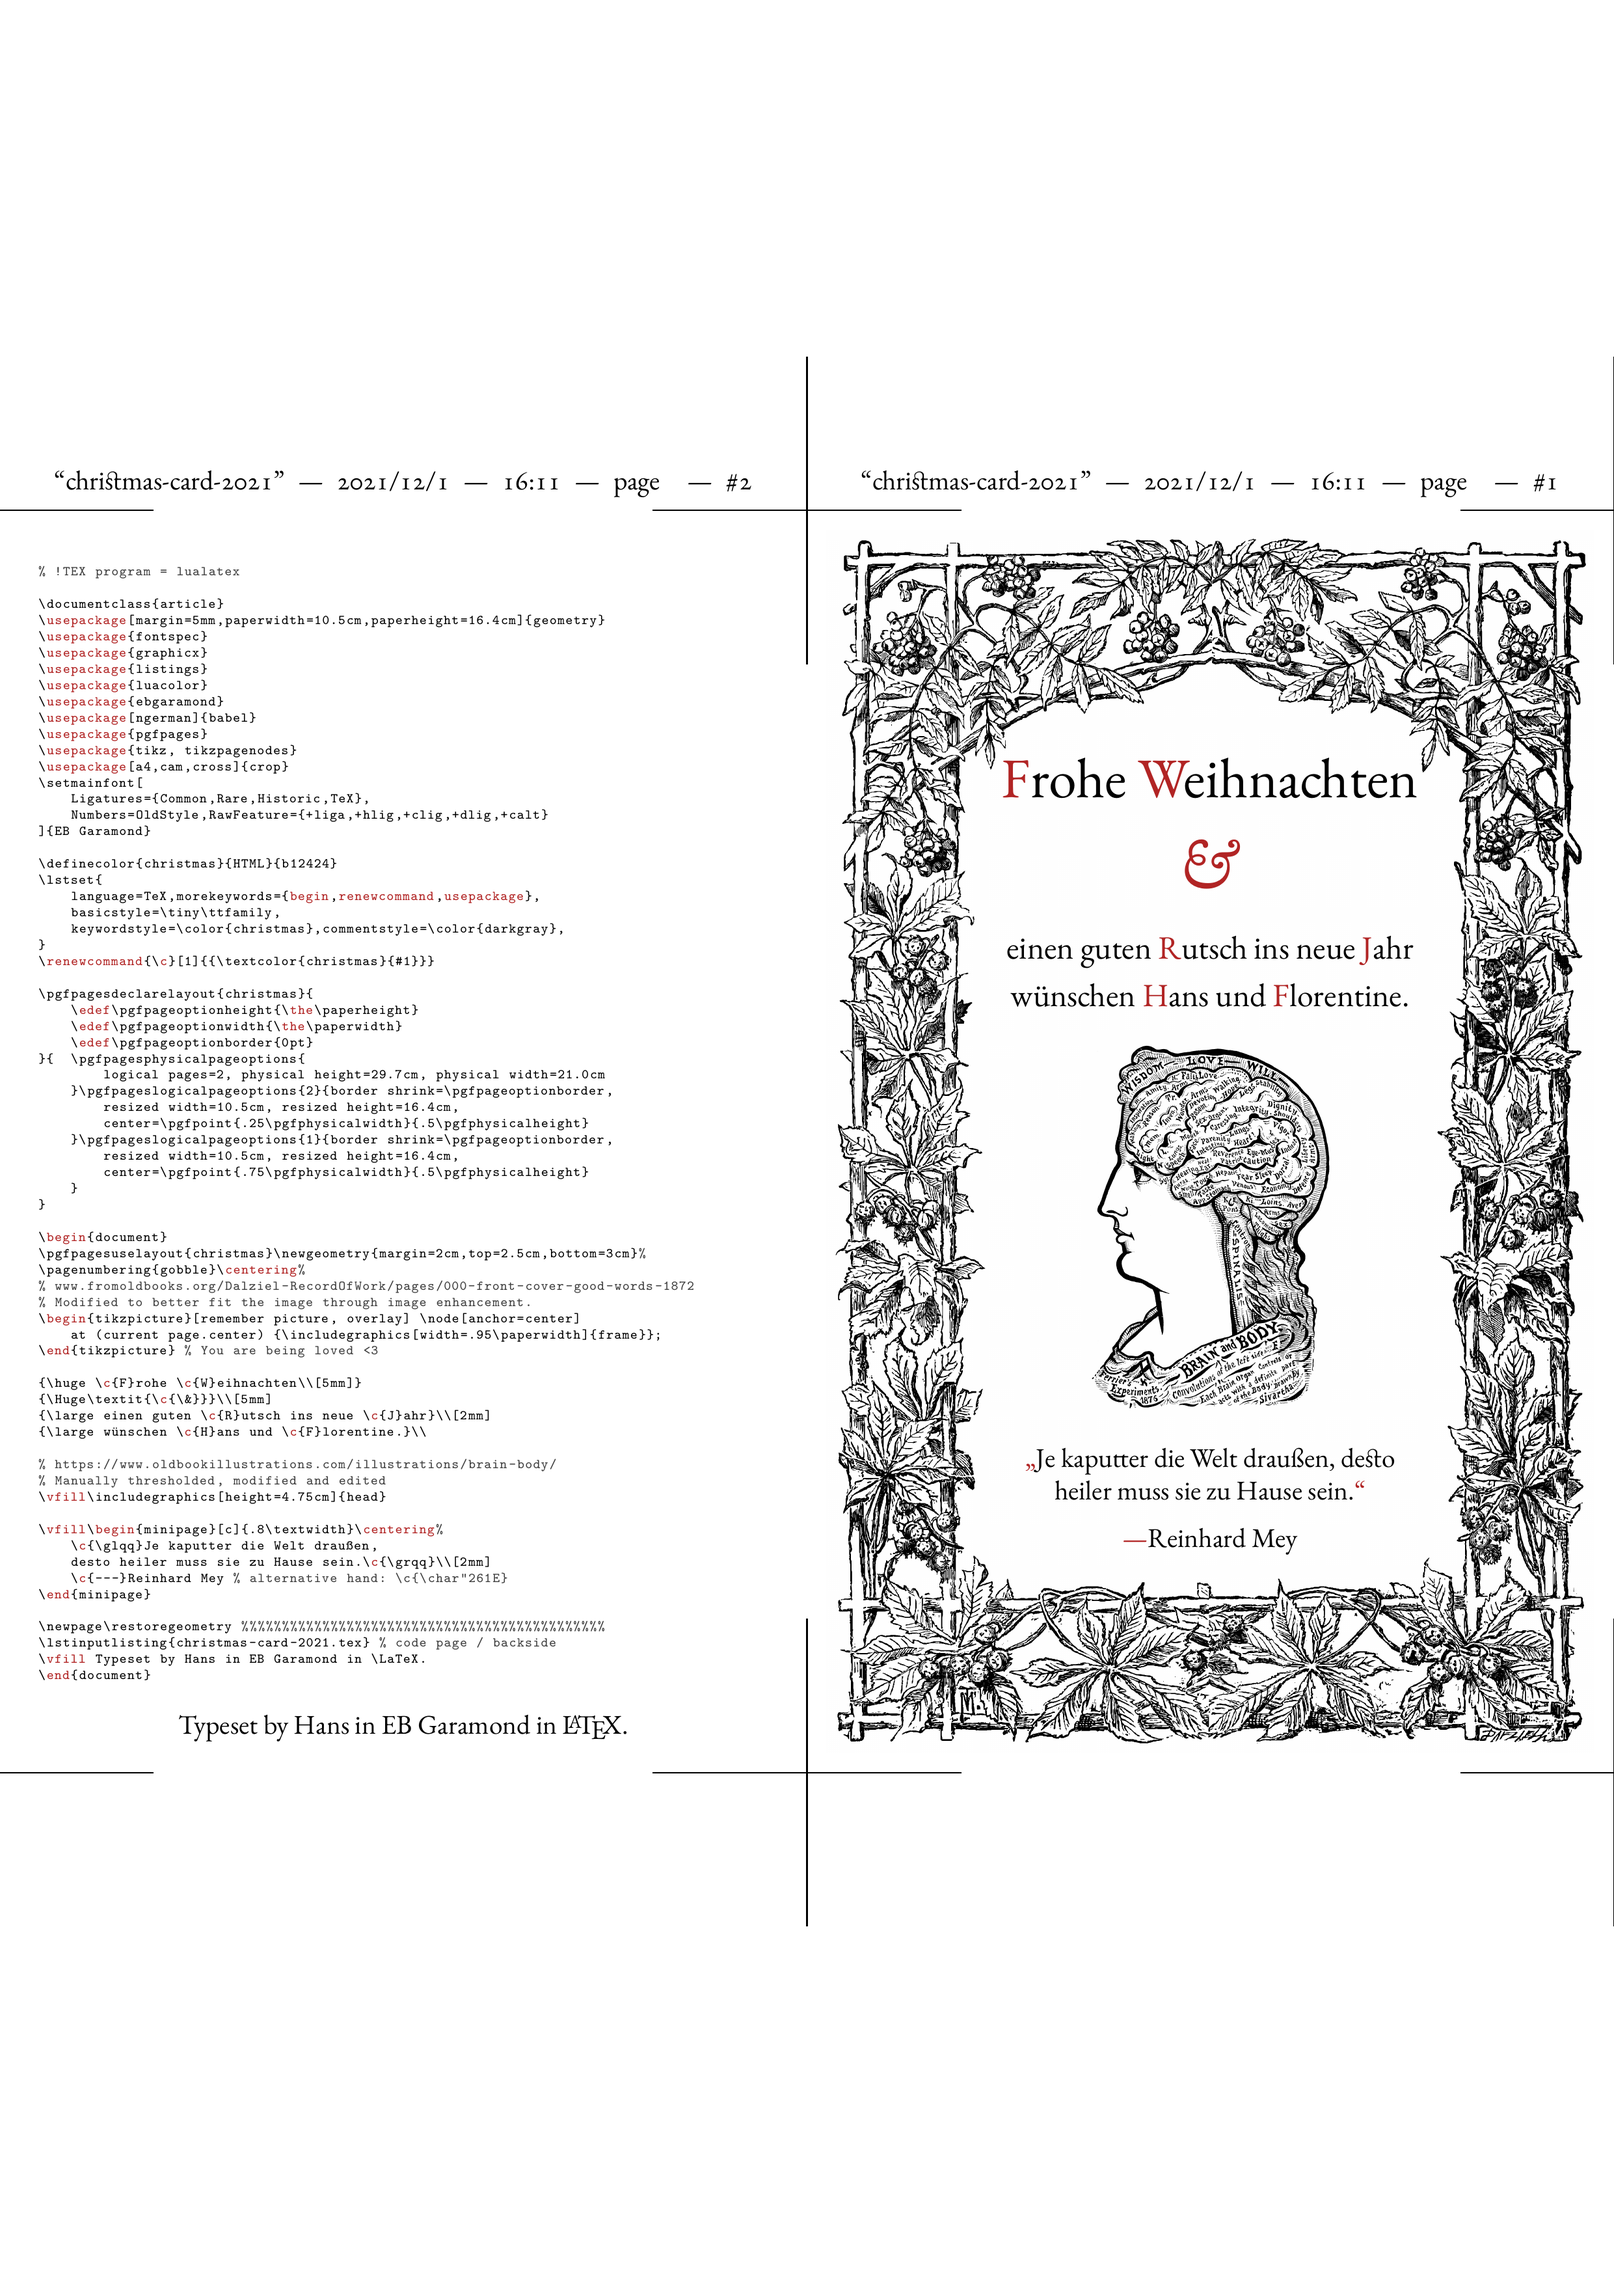
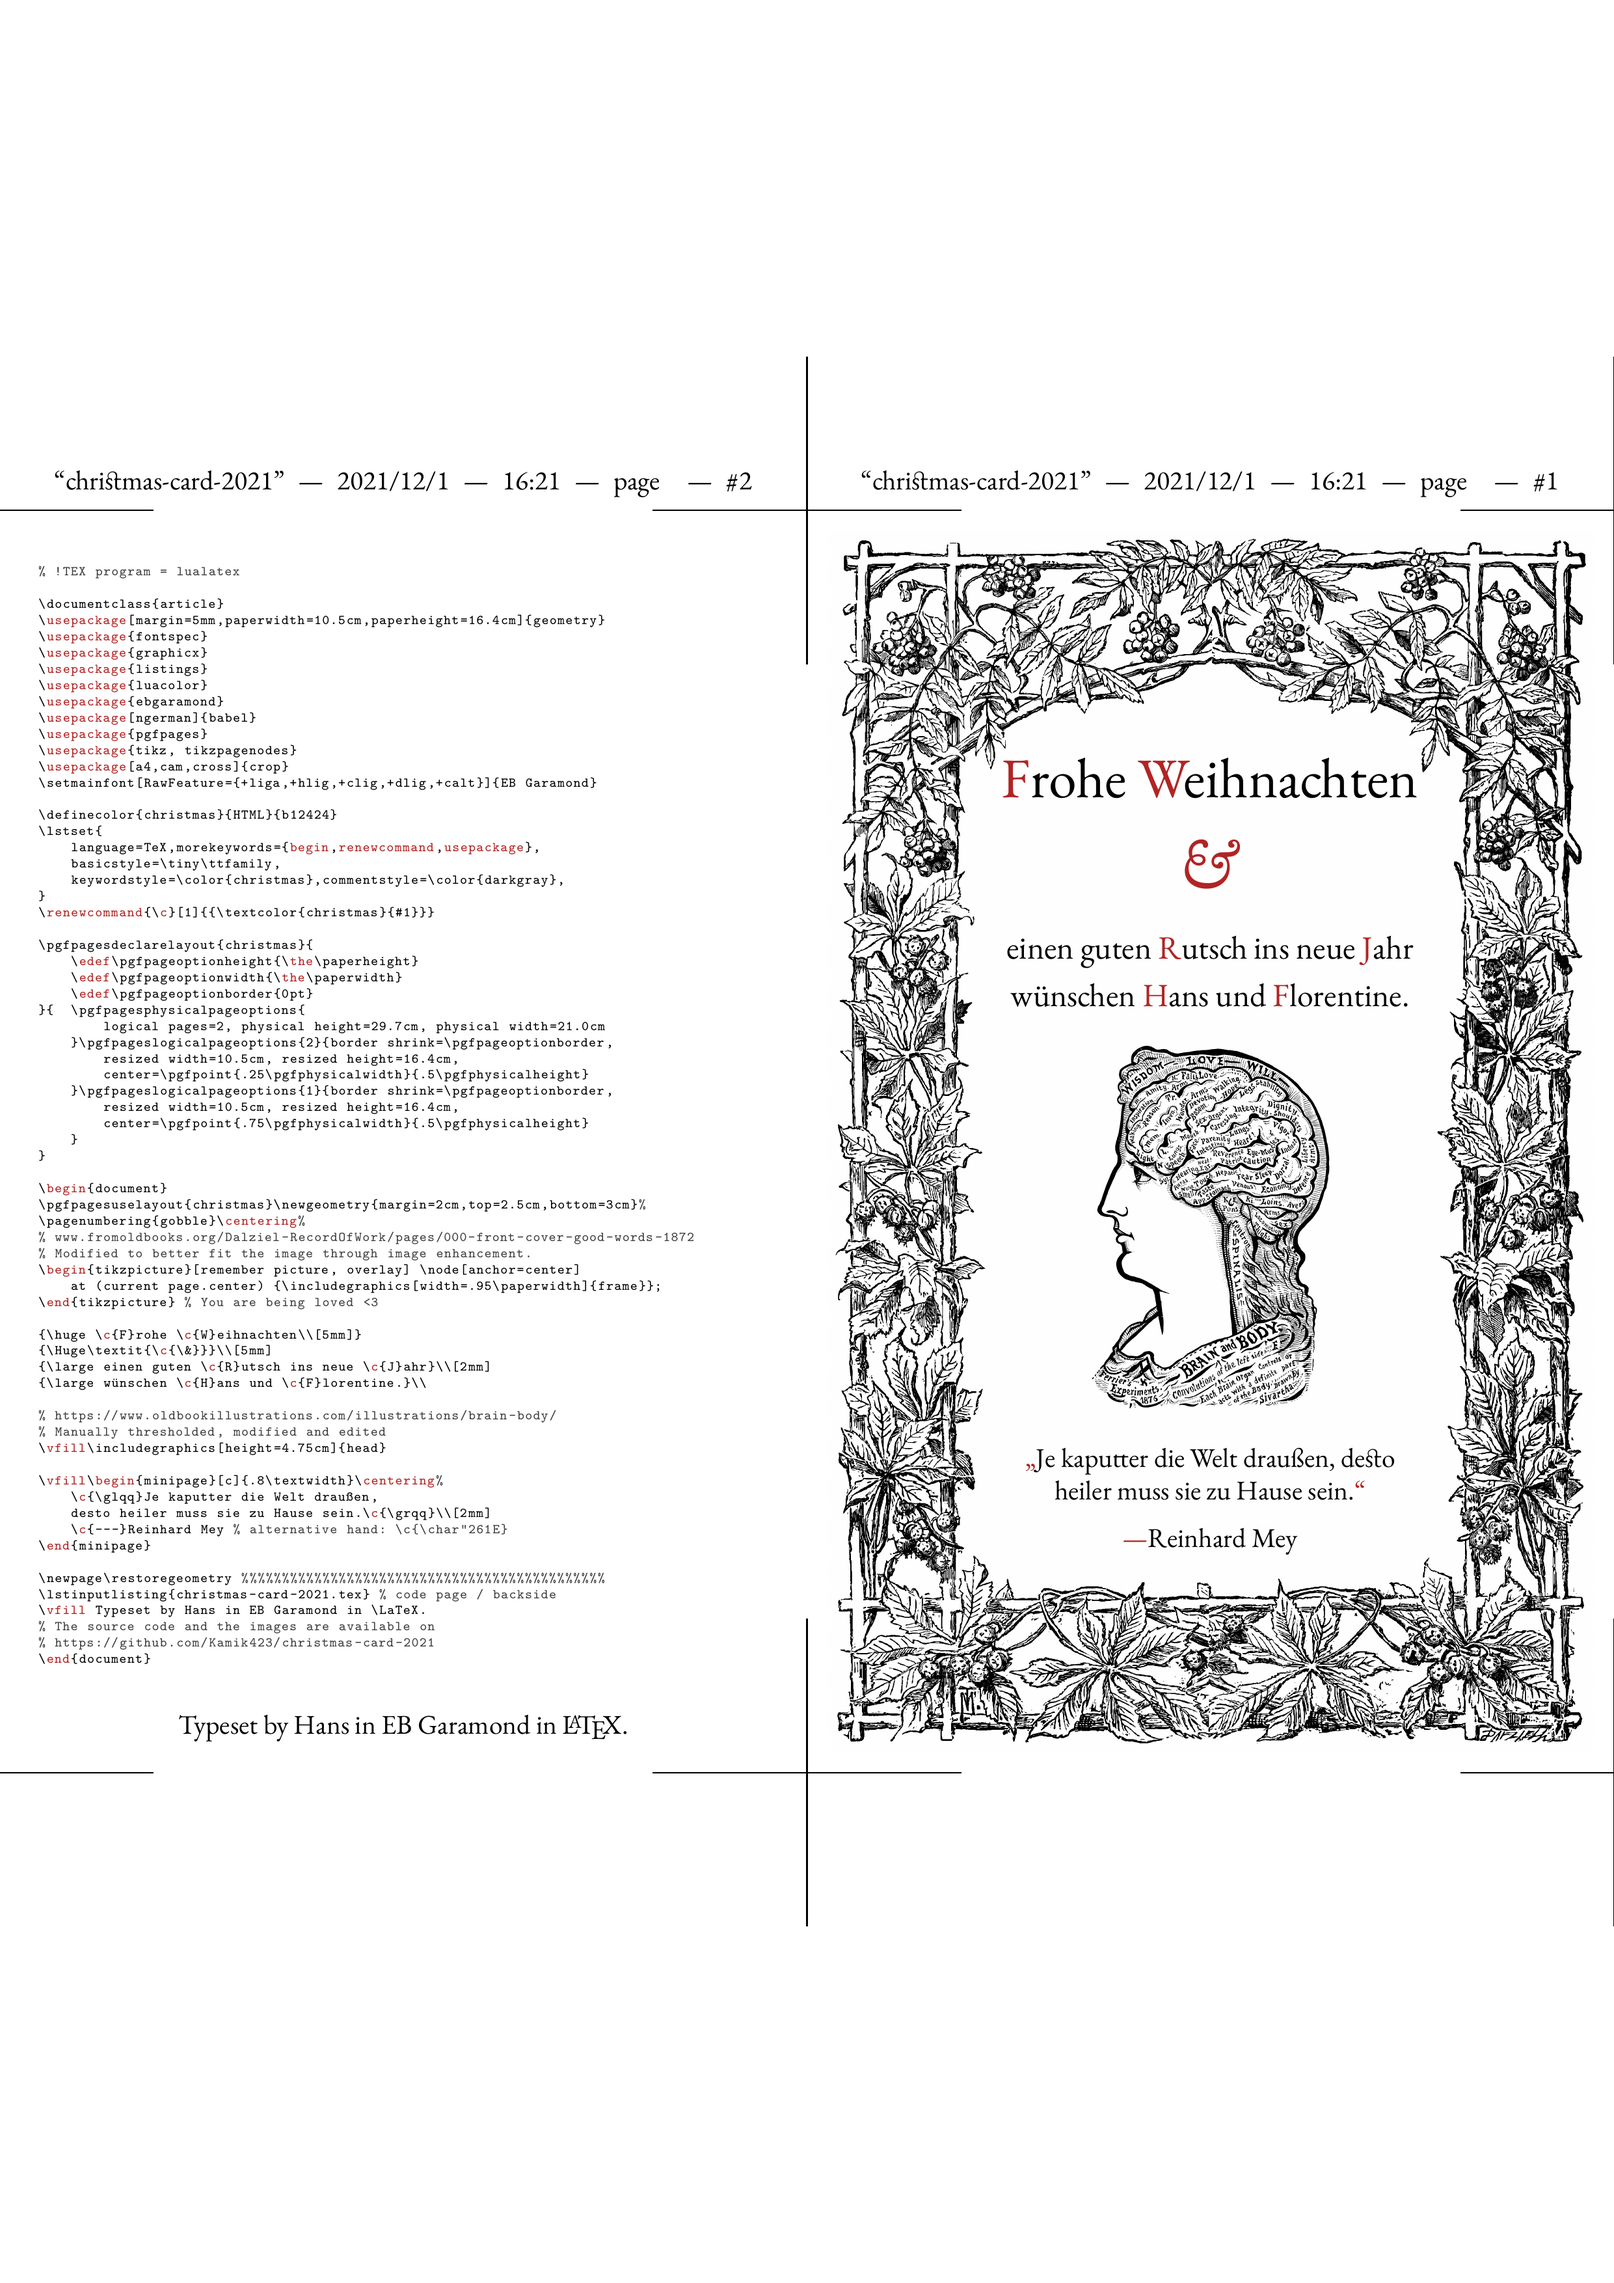
minor tweaks

Changed region(s): [[0.031, 0.4971, 0.4035, 0.7457], [0.031, 0.3418, 0.3414, 0.4661]]

diff --git a/christmas-card-2021.tex b/christmas-card-2021.tex
@@ -11,10 +11,7 @@
 \usepackage{pgfpages}
 \usepackage{tikz, tikzpagenodes}
 \usepackage[a4,cam,cross]{crop}
-\setmainfont[
-    Ligatures={Common,Rare,Historic,TeX},
-    Numbers=OldStyle,RawFeature={+liga,+hlig,+clig,+dlig,+calt}
-]{EB Garamond}
+\setmainfont[RawFeature={+liga,+hlig,+clig,+dlig,+calt}]{EB Garamond}
 
 \definecolor{christmas}{HTML}{b12424}
 \lstset{
@@ -66,4 +63,6 @@
 \newpage\restoregeometry %%%%%%%%%%%%%%%%%%%%%%%%%%%%%%%%%%%%%%%%%%%%%
 \lstinputlisting{christmas-card-2021.tex} % code page / backside
 \vfill Typeset by Hans in EB Garamond in \LaTeX.
+% The source code and the images are available on
+% https://github.com/Kamik423/christmas-card-2021
 \end{document}

diff --git a/README.md b/README.md
@@ -1,17 +1,26 @@
-# Christmas Card 2019
+# Christmas Card 2021
 
-![image](christmas-card-2019.png)
+![image](christmas-card-2021.png)
 
-Christmas card set in LaTeX with EBGaramond.
+Christmas card set in LaTeX with EB Garamond.
+
+Based on my [2021 christmas card](https://github.com/Kamik423/christmas-card-2019).
+
+The image here is generated via
+
+```bash
+pdftoppm christmas-card-2021.pdf render -r 300 -png; mv -f render-1.png christmas-card-2021.png  
+```
 
 ## License
 
-The orignal images belongs to [u/ImACumWhore](https://www.reddit.com/user/ImACumWhore) on reddit. They have all the rights to it. It was originally shared in [a post](https://www.reddit.com/r/MedievalCats/comments/e713ht/king_derpy/) on [r/MedievalCats](https://www.reddit.com/r/MedievalCats/). It was modified in GIMP.
+The original images are from [fromoldbooks](https://www.fromoldbooks.org/Dalziel-RecordOfWork/pages/000-front-cover-good-words-1872/) and [oldbookillustrations](https://www.oldbookillustrations.com/illustrations/brain-body/) but have been modified in Acorn.
+Only freely available personal-use versions have been used; I do not own any rights.
 
 The LaTeX source and the PDF are otherwise licensed under the MIT License; feel free to modify or reuse it:
 
 ```
-Copyright © 2019 Kamik423
+Copyright © 2021 Kamik423
 
 Permission is hereby granted, free of charge, to any person
 obtaining a copy of this software and associated documentation
